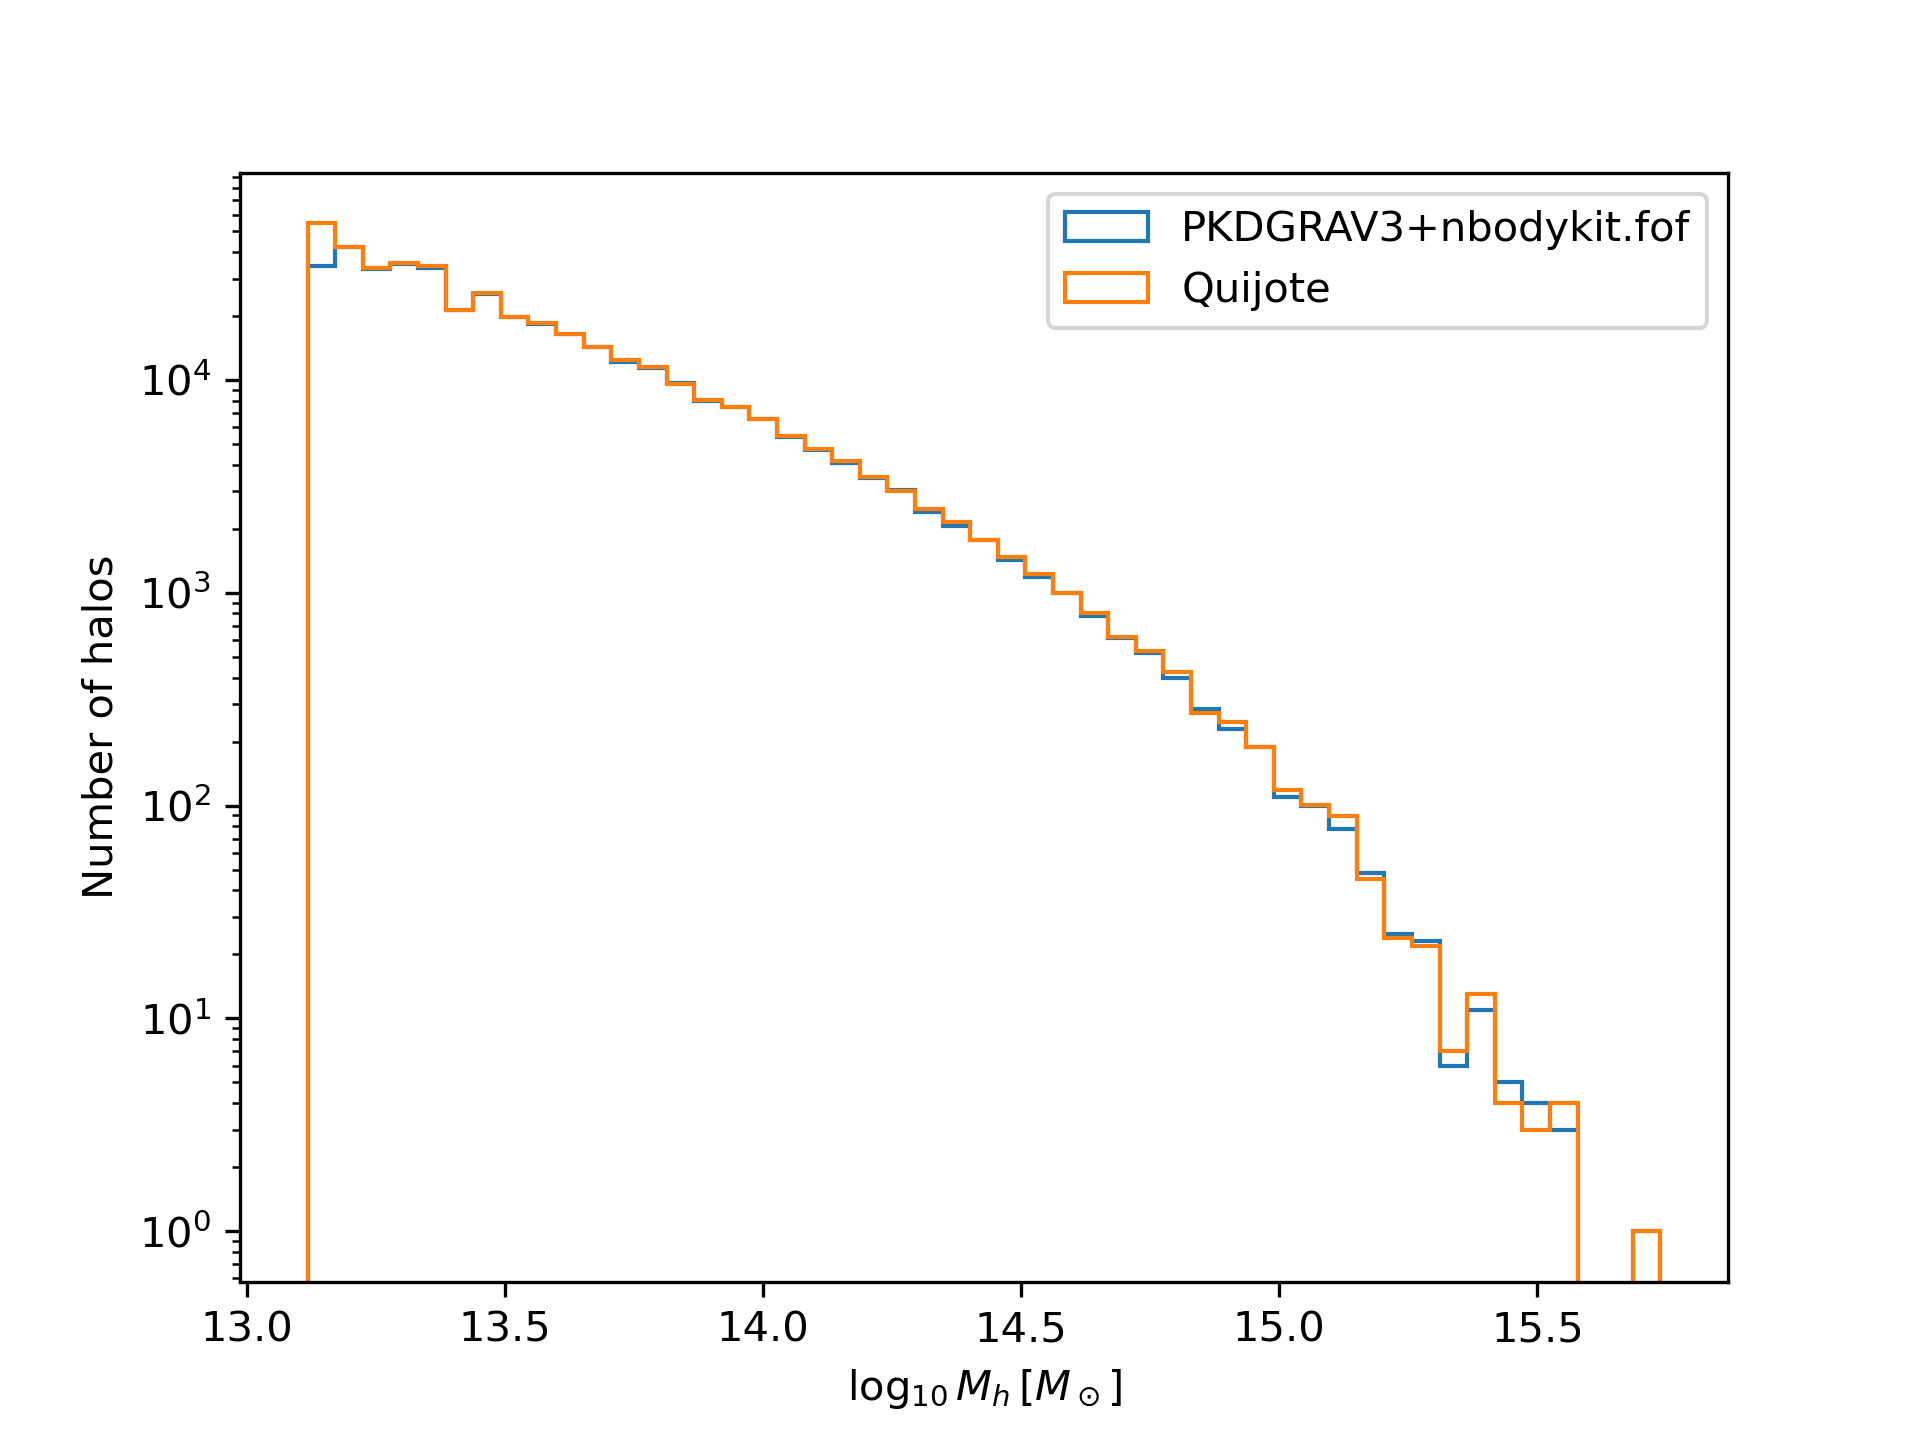
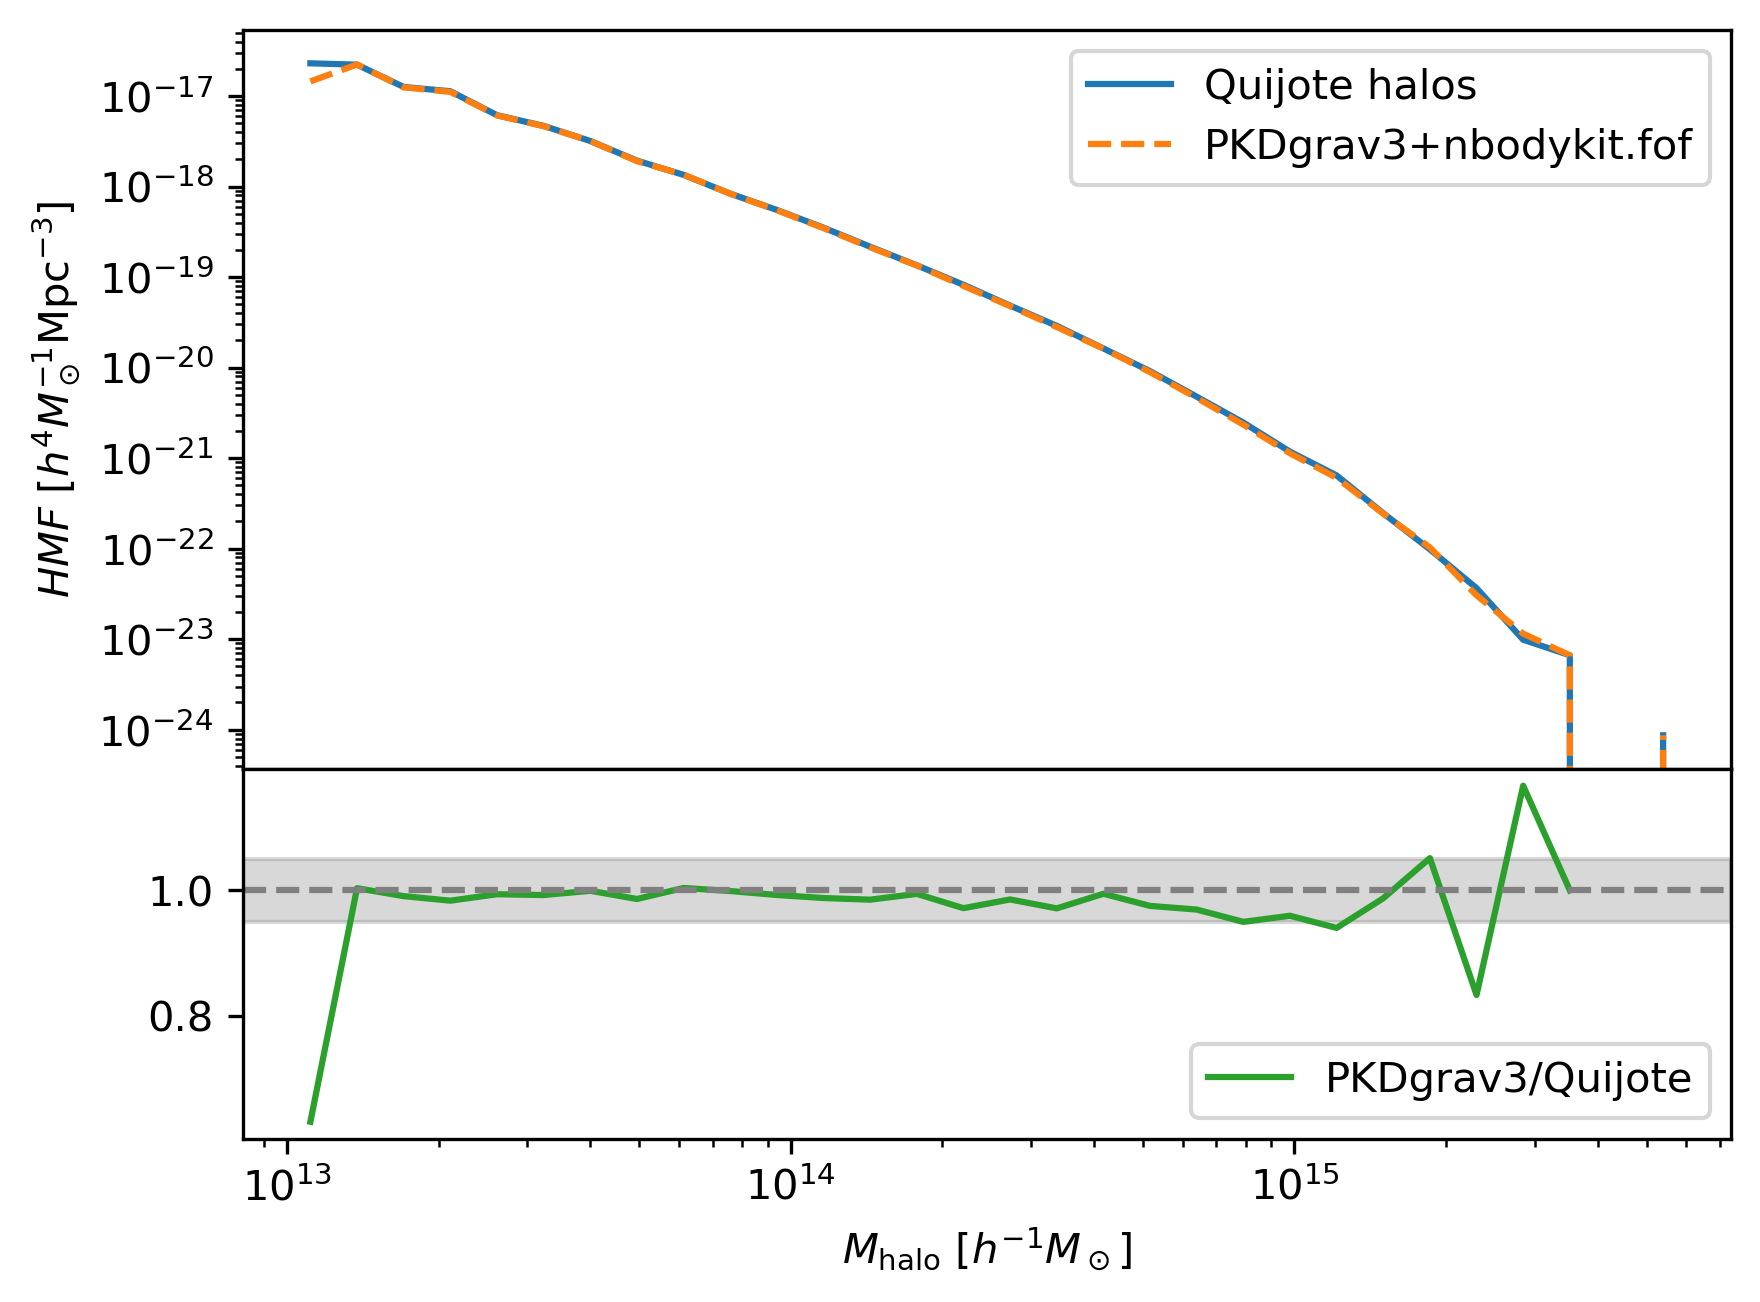
update plot as Quijote suggests

diff --git a/codes/plot/HMF.py b/codes/plot/HMF.py
@@ -29,7 +29,6 @@ mp = mass_box / ngrid**3 # M_sun/h
 
 # %%
 halo_mass = halo_len[1:] * mp
-logMh = np.log10(halo_mass)
 
 # %% [markdown]
 # ## Quijote halos
@@ -54,12 +53,34 @@ Np_h   = FoF.GroupLen                #Number of CDM particles in the halo. Even 
 # ## HMF
 
 # %%
-log_mass_h = np.log10(mass_h)
-bins = np.linspace(min(logMh.min(), log_mass_h.min()), max(logMh.max(), log_mass_h.max()), 50)
-plt.hist(logMh, bins=bins, histtype='step', label='PKDGRAV3+nbodykit.fof')
-plt.hist(log_mass_h, bins=bins, histtype='step', label='Quijote')
-plt.yscale('log')
-plt.xlabel(r'$\log_{10} M_h \, [M_\odot]$')
-plt.ylabel('Number of halos')
-plt.legend()
-plt.savefig('../../figs/pkdgrav3_quijote_hmf.png', dpi=300)
+min_mass = 1e13 #minimum mass in Msun/h
+max_mass = 6e15 #maximum mass in Msun/h
+bins     = 30   #number of bins in the HMF
+
+# Correct the masses of the FoF halos
+mass_h = mass_h*(1.0-Np_h**(-0.6))
+
+bins_mass = np.logspace(np.log10(min_mass), np.log10(max_mass), bins+1)
+mass_mean = 10**(0.5*(np.log10(bins_mass[1:])+np.log10(bins_mass[:-1])))
+dM        = bins_mass[1:] - bins_mass[:-1]
+
+# compute the halo mass function (number of halos per unit volume per unit mass)
+HMF_quijote = np.histogram(mass_h, bins=bins_mass)[0]/(dM*boxL**3)
+halo_mass = halo_mass*(1.0-halo_len[1:]**(-0.6))
+HMF_pkdgrav3 = np.histogram(halo_mass, bins=bins_mass)[0]/(dM*boxL**3)
+
+fig, (ax1, ax2) = plt.subplots(2, 1, sharex=True, gridspec_kw={'hspace': 0, 'height_ratios': [2, 1]})
+ax1.plot(mass_mean, HMF_quijote, label='Quijote halos', color='C0')
+ax1.plot(mass_mean, HMF_pkdgrav3, '--', label='PKDgrav3+nbodykit.fof', color='C1')
+ax1.set_ylabel(r'$HMF~[h^4M_\odot^{-1}{\rm Mpc}^{-3}]$')
+ax1.set_xscale('log')
+ax1.set_yscale('log')
+ax1.legend()
+ax2.plot(mass_mean, HMF_pkdgrav3/HMF_quijote, label='PKDgrav3/Quijote', color='C2')
+ax2.axhline(1.0, color='gray', linestyle='--')
+ax2.axhspan(0.95, 1.05, color='gray', alpha=0.3)
+ax2.set_xlabel(r'$M_{\rm halo}~[h^{-1}M_\odot]$')
+# ax2.set_ylabel(r'$HMF_{\rm pkdgrav3}/HMF_{\rm Quijote}$')
+ax2.set_xscale('log')
+ax2.legend()
+fig.savefig('../../figs/pkdgrav3_quijote_hmf.png', dpi=300, bbox_inches='tight')

diff --git a/codes/compare_nbody/README.md b/codes/compare_nbody/README.md
@@ -27,6 +27,10 @@ We first try to find FoF halos with the PKDgrav3 code. Refer the [docs](https://
 
 Then we choose [nbodykit.algorithms.fof.FOF](https://nbodykit.readthedocs.io/en/latest/api/_autosummary/nbodykit.algorithms.fof.html#nbodykit.algorithms.fof.FOF) to find the FoF halos. See `pkd_nbfof.py`, where we first read Tipsy snapshots to get particles positions and velocities, and then run the FoF algorithm. Finally, the output is saved in bigfile format.
 
+#### HMF 
+
+We compare the HMF with Quijote, as [Quijote doc/Reading FoF](https://quijote-simulations.readthedocs.io/en/latest/Examples/Reading_FoF.html) suggested. See `plot/HMF.py` for the details.
+
 
 ## MP-Gadget
 
